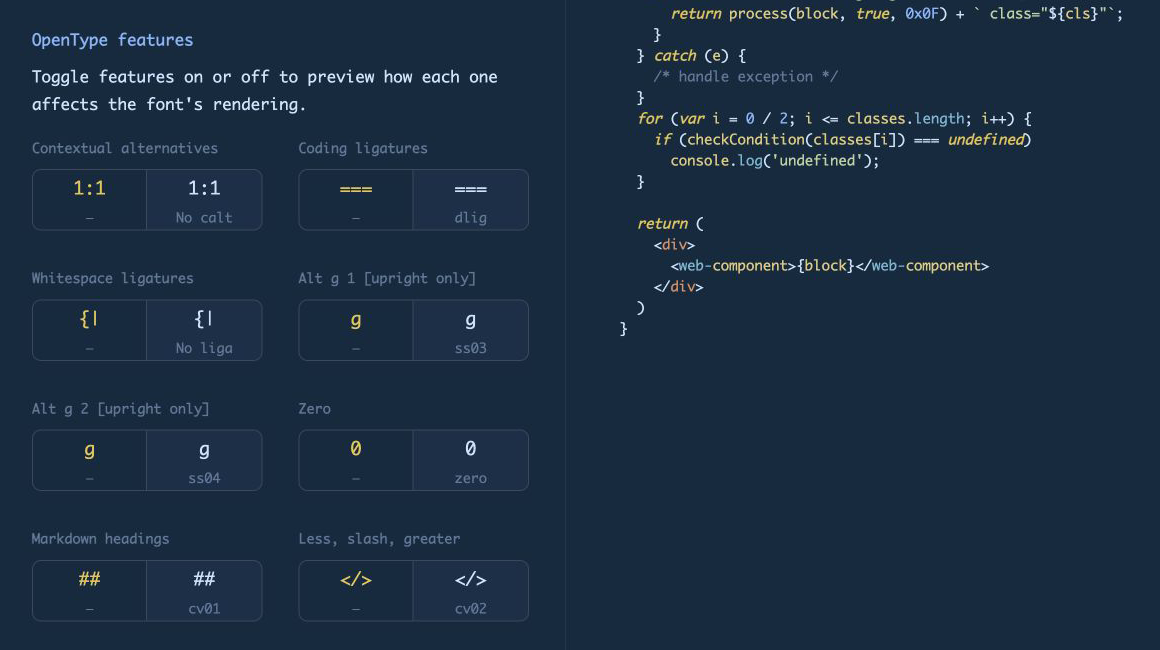
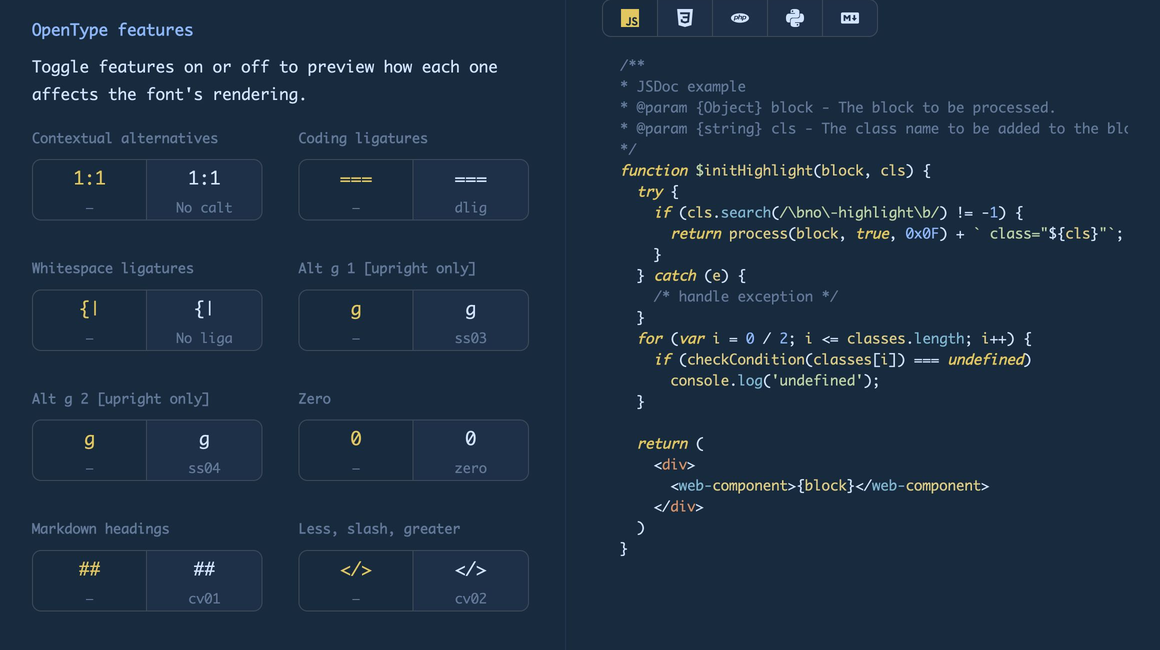
Add Retina VS Code article screenshots

diff --git a/02_drafts/introducing_monolisa_for_vscode.md b/02_drafts/introducing_monolisa_for_vscode.md
@@ -15,7 +15,10 @@ After installing the extension, run **MonoLisa: Open Configuration** from the Co
 
 The coding-font section puts controls and a live code sample side by side. You can adjust size, weight, and line height while switching the preview between JavaScript, CSS, PHP, Python, and Markdown. With a supported full variable font, the weight control is continuous; the Trial correctly limits the choice to its included Regular and Bold cuts.
 
-![The MonoLisa for VS Code coding-font panel with typography controls, a live JavaScript preview, and the proposed settings](/images/monolisa-vscode-coding-font.png)
+<picture>
+  <source srcSet="/images/monolisa-vscode-coding-font.png 1x, /images/monolisa-vscode-coding-font-2x.png 2x" />
+  <img src="/images/monolisa-vscode-coding-font.png" alt="The MonoLisa for VS Code coding-font panel with typography controls and a live JavaScript preview" width="100%" />
+</picture>
 
 The extension checks the capabilities of the MonoLisa installation instead of presenting controls that may do nothing. It also supports renamed or customized builds: enter the suffix from a downloaded MonoLisa build and let the panel rescan it.
 
@@ -25,7 +28,10 @@ Bundled preview fonts are not installed as system fonts, and commercial font fil
 
 Font family and size are only the beginning. MonoLisa contains OpenType features for ligatures, character variants, alternate zeroes, arrows, brackets, and many other details. The coding-font panel exposes the features supported by the detected build and renders each option directly in the selector, making the choice visual instead of asking you to remember tags such as `cv08` or `ss03`.
 
-![OpenType feature selectors next to the live code preview in MonoLisa for VS Code](/images/monolisa-vscode-opentype-features.png)
+<picture>
+  <source srcSet="/images/monolisa-vscode-opentype-features.png 1x, /images/monolisa-vscode-opentype-features-2x.png 2x" />
+  <img src="/images/monolisa-vscode-opentype-features.png" alt="OpenType feature selectors next to the live code preview in MonoLisa for VS Code" width="100%" />
+</picture>
 
 There is also a dedicated script-style control. It can keep everything upright, italicize comments only, or extend MonoLisa's alternate script glyphs across code. The live preview makes the difference visible before the setting reaches the editor.
 
@@ -35,7 +41,10 @@ When applied, the coding configuration covers more than the main editor. It can 
 
 MonoLisa version 3 introduced **MonoLisa Text**, a proportional companion for reading and writing outside monospaced code. The extension brings that pairing into VS Code by configuring MonoLisa Text for the rendered Markdown Preview. Sadly VS Code does not allow replacing its UI font completely yet so this was the best we could do in this department.
 
-![The prose-font panel previewing MonoLisa Text in headings, paragraphs, bold, italic, and ligature samples](/images/monolisa-vscode-prose-font.png)
+<picture>
+  <source srcSet="/images/monolisa-vscode-prose-font.png 1x, /images/monolisa-vscode-prose-font-2x.png 2x" />
+  <img src="/images/monolisa-vscode-prose-font.png" alt="The prose-font panel previewing MonoLisa Text in headings, paragraphs, bold, italic, and ligature samples" width="100%" />
+</picture>
 
 The prose section includes a sample with headings, paragraphs, bold, italic, character sets, and ligatures. Size and line height can be tuned independently from the coding font. The panel is deliberately explicit about the boundary: this setting affects **Markdown: Open Preview**, not Markdown source in the editor, the terminal, or chat.
 
@@ -52,7 +61,10 @@ The extension ships with four themes that cover a range of working environments:
 
 Selecting a theme immediately re-themes the configuration panel, providing a larger preview before it is applied to VS Code. Each theme can also be tuned along three practical dimensions: soft, balanced, or crisp contrast; muted, balanced, or vivid color; and subtle or clear comments. A small editor preview responds to each choice.
 
-![The four MonoLisa themes with controls for palette contrast, color intensity, and comment prominence](/images/monolisa-vscode-themes.png)
+<picture>
+  <source srcSet="/images/monolisa-vscode-themes.png 1x, /images/monolisa-vscode-themes-2x.png 2x" />
+  <img src="/images/monolisa-vscode-themes.png" alt="The four MonoLisa themes with controls for palette contrast, color intensity, and comment prominence" width="100%" />
+</picture>
 
 These controls are intended to make a theme adaptable without turning theme configuration into a color-by-color project. Start from the palette you prefer, make a few broad adjustments, and reset to the base palette at any time.
 
